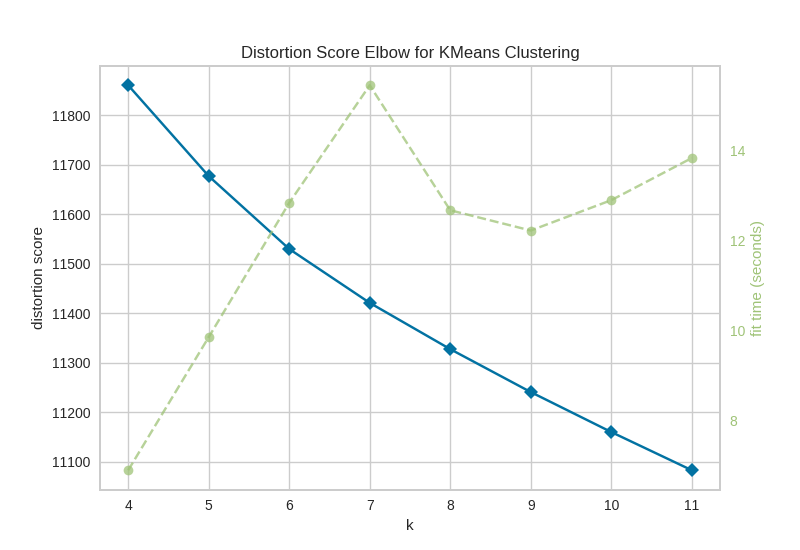
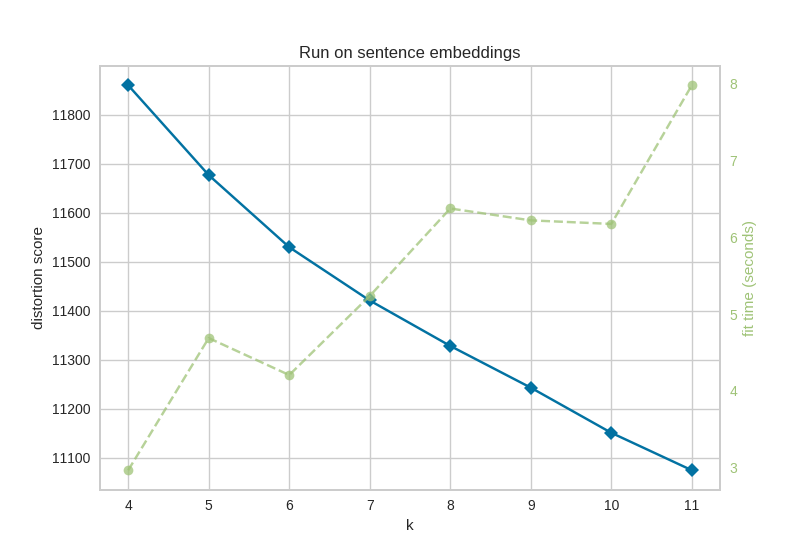
Refactor kelbow visulize, better modularity

diff --git a/paraphrase/agglo_cluster.py b/paraphrase/agglo_cluster.py
@@ -50,11 +50,20 @@ def load_embeddings(fname):
     
     return stored_data
 
+# Function for kelbow plots generic
+def kelbow_visualize(input_data, clf, title, out_path):
+    _, ax = plt.subplots() # Create a new figure
+    model = clf
+    visualizer = KElbowVisualizer(model, k=(4,12), title = title, ax = ax) 
+    visualizer.fit(input_data)
+    visualizer.show(outpath = out_path) 
+
 def main():
     parser = argparse.ArgumentParser()
     parser.add_argument("-dt", "--data", help = "choose to take the bbc corpus")
     parser.add_argument("-noeq", "--noequal", help= "choose whether to include same sentences as pairs")
-    
+    parser.add_argument("-clf", "--classifier", help= "choose classifier for kelbow", default = KMeans())
+    parser.add_argument("-mtx", "--matrix", help = "specify the matrix of input")
 
     args = parser.parse_args()
 
@@ -90,9 +99,24 @@ def main():
     sentence_embeddings = load_embeddings(embedding_file_bbc)['embeddings']
     print("Sentence vectors loaded from {} .....".format(args.data))
     print("Shape of sentence vectors", sentence_embeddings.shape)
-    
+
+    if args.classifier == "kmeans":
+         model = KMeans(random_state = 42)
+
+    if args.matrix == "sentences":
+        input_data = sentence_embeddings
+        title = "Run on sentence embeddings"
+        out_path = "paraphrase/figs/kelbow_kmeans_allsentences.png"
+    elif args.matrix == "paraprobs":
+        input_data = para_probs.reshape((-1,1))
+        title = "Run on para probs"
+        out_path = "paraphrase/figs/kelbow_kmeans_paraprobs.png"
+
+    kelbow_visualize(input_data, model, title, out_path)
+
+    '''_, ax = plt.subplots() # Create a new figure
     model = KMeans()
-    visualizer = KElbowVisualizer(model, k=(4,12))  
+    visualizer = KElbowVisualizer(model, k=(4,12), title = "Run on sentence embeddings", ax = ax)  
 
     # Fit the sentence data to the visualizer
     visualizer.fit(sentence_embeddings)      
@@ -101,10 +125,10 @@ def main():
     # Fit the paraprobs data to the visualizer
 
     _, ax = plt.subplots() # Create a new figure
-    new_visualizer = KElbowVisualizer(model, k=(4,12), ax = ax)  
+    new_visualizer = KElbowVisualizer(model, k=(4,12), title = "Run on para probs", ax = ax)  
     new_visualizer.fit(para_probs.reshape(-1, 1))      
     # Finalize and render the figure 
-    new_visualizer.show(outpath="paraphrase/figs/kelbow_kmeans_paraprobs.png") 
+    new_visualizer.show(outpath="paraphrase/figs/kelbow_kmeans_paraprobs.png")''' 
 
 
 if __name__== '__main__':
